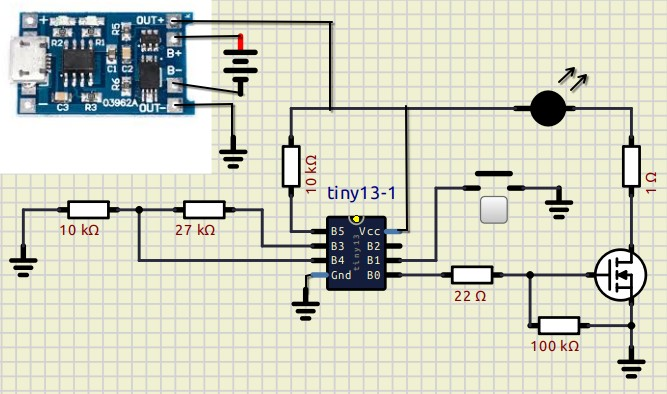
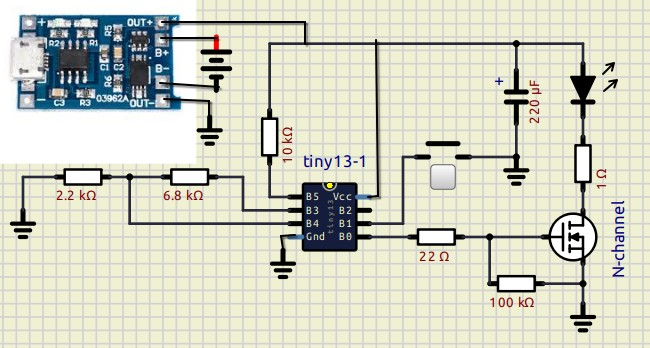
more stable

diff --git a/README.md b/README.md
@@ -3,19 +3,18 @@ LED flashlight control on Attiny13
 
 Это старый проект найденный на сайте [mysku.club](https://mysku.club/blog/ebay/39366.html), с небольшими доработками.
 1. Остались всё те-же режимы, минимальный, средний и максимальный. Но теперь ШИМ меняется в каждом режиме
-в зависимости от напряжения на аккумуляторе.
+в зависимости от напряжения на аккумуляторе. Начальные 60%, 40%, 20% по мере разряда становятся 100%, 80%, 60%.
 2. Напряжение перехода в экономный режим и отключения понижены до минимальных, 3.1V и 2.8V соответвенно.
 При разряде аккумулятора ниже 3.5V уже не имеет значения когда именно будет отсечка, светодиоды будут быстро терять яркость,
 а режим минимального свечения будет настолько минимальным, что о нормальной работе речь не идёт. Это просто индикация разряда.
 3. Сейчас все платы TP4056 идут с BMS, так что нет особого смысла в отсечке именно логикой фонарика.
 4. Убран переменный резистор, вместо него фиксированный делитель. Опять-же нет особого смысла ловить милливольты.
-Но в случае исспользования "затылочного" светодиода, крутилка имеет смысл, так-как светодиод будет просаживать уровень
-напряжения и вносить погрешность.
 5. Сборка проекта проводится обычной средой Arduino с установленной microCore. Так проще.
 
 ## Варианты схем
 
-Вариант с P-channel MOSFET
+Вариант с P-channel MOSFET. Если исспользовать схему именно как у оригинального автора, то нужен именно этот вариант,
+так как от отсека с аккумуляторами до светодиода с кнопкой идут три провода и разрыв земли недопустим, иначе кнопка перестанет работать.
 
 [![Вариант с P-channel MOSFET](https://github.com/SerhiiLe/Attiny13_Torch/blob/main/P-channel.jpg)](https://github.com/SerhiiLe/Attiny13_Torch/blob/main/P-channel.jpg)
 
@@ -27,12 +26,20 @@ LED flashlight control on Attiny13
 
 Транзистор к примеру такой: [N-Mosfet AO3400A](https://www.k206.net/catalog/158/10744/)
 
-Вариант с N-channel предпочтительнее.
+Вариант с N-channel может пригодится в обычных фонариках, где схема и кнопка находятся в одном месте и разрыв земли не проблема.
+Сопротивление N-channel транзисторов как правило меньше и стоят они немного дешевле.
 
-Так-же, естественно, подходит оригинальная схема от автора.
+Так-же, естественно, подходит оригинальная схема от автора, кроме того, что вместо подстроечного резистора исспользуется постоянный
+и настройка не требуется.
 
 Из интереной особенности, автор измеряет напряжение на аккумуляторе через Attiny13, при засыпании напряжение снимается и ток
 через делитель напряжеия не идёт. За счёт этого схема в режиме сна имеет минимальное потребление.
+
+В делителе напряжения вместо резисторов 2.2k и 6.8k можно использовать 22k и 68k соответсвенно.
+
+Конденсатор по питанию крайне желателен, так как из-за пульсаций микроконтроллер может зависать. Особенно на старых аккумуляторах
+с большим внутренним сопротивлением, а именно такие обычно ставят в фонарики. Или любой разряженный аккумулятор, так как при разряде
+внутреннее сопротивление растёт. Ёмккость конденсатора 220-470uF, главное, чтобы он влезал в корпус.
 
 ## Сборка
 
@@ -50,4 +57,9 @@ https://mcudude.github.io/MicroCore/package_MCUdude_MicroCore_index.json
 Можно прошивать готовые бинарные файлы любой программой для прошивки, их много. К примеру [Daduda](https://github.com/AndrejChoo/Cross-platform-avrdude-GUI)
 или как у автора оригинального проекта.
 
-Fuses: Low=7A , Hi=FF (AVRDUDE  -U lfuse:w:0x7A:m  -U hfuse:w:0xFF:m) (LOCKBIT=FF)
+## Fuses
+
+Low=3A , Hi=FF (AVRDUDE  -U lfuse:w:0x3A:m  -U hfuse:w:0xFF:m) (LOCKBIT=FF)
+
+Стандартные от Arduino работают менее стабильно, так как там активирован контроль напряжения 2.7V, что при колебаниях из-за ШИМ
+приводит к перезагрузкам микроконтроллера.
